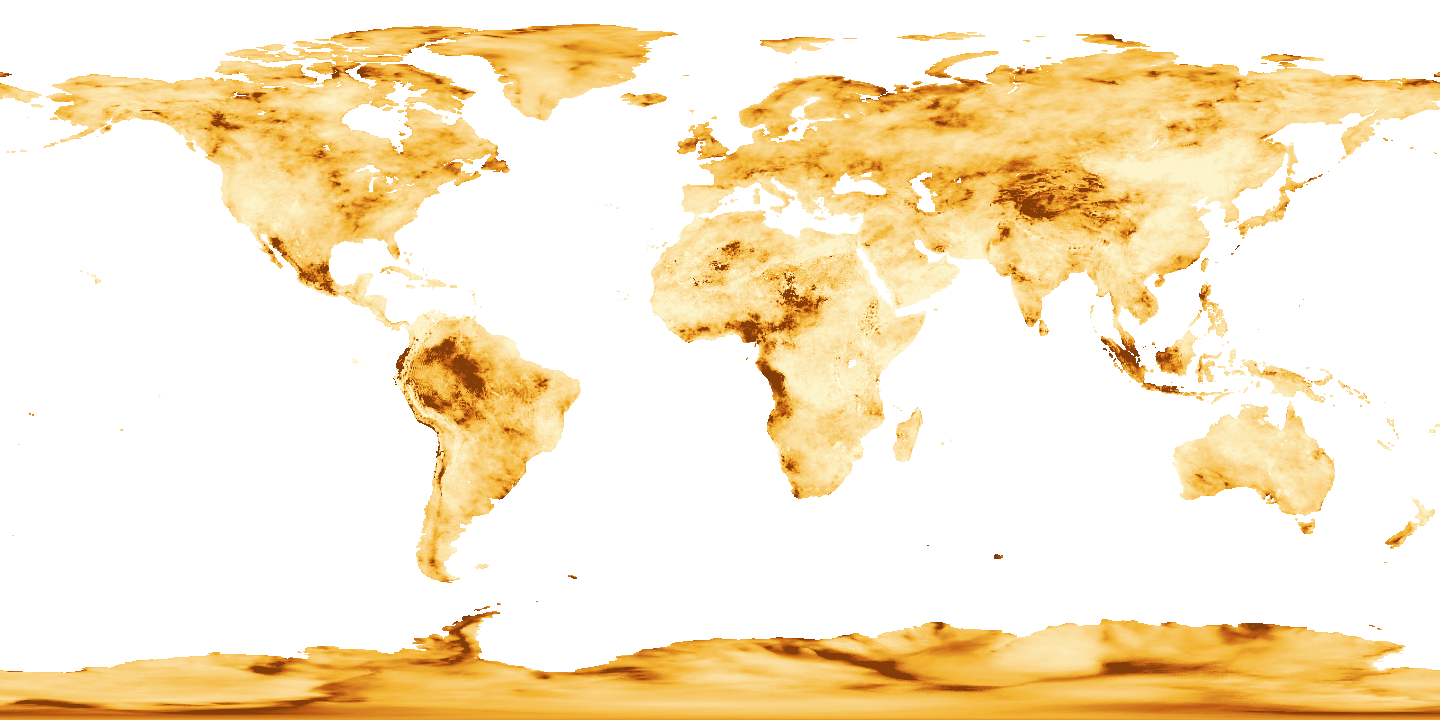
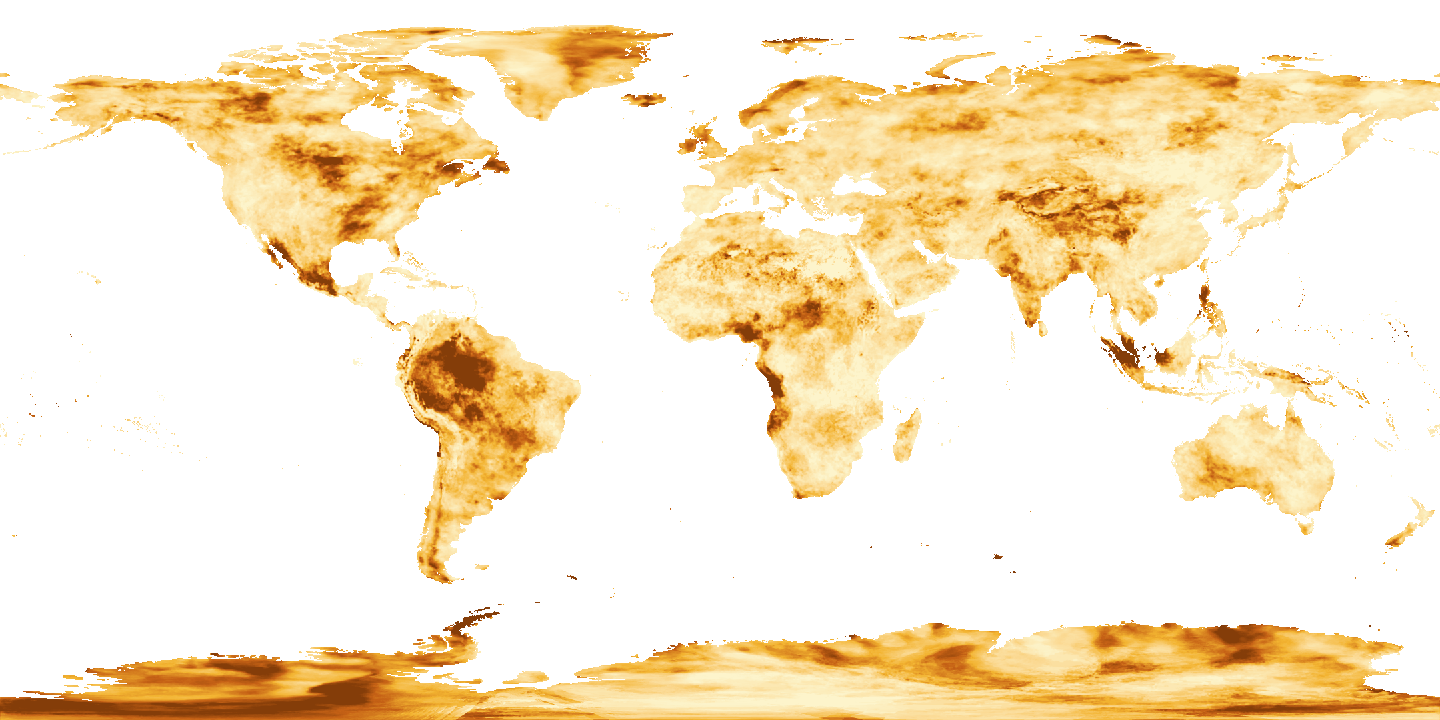
STAC: SPI/SPEI drought layers point at the TerraClimate probability band
The SPI and SPEI collections were built from the wrong files: SPI from the
Copernicus SPI index (-8..8) and SPEI from a 100-year return level. The
exposure rules (> 0.091 SPI, > 0.065 SPEI, the global means) and the
official GEE exposure tables use band 2 of the TerraClimate
spi12/spei12_TerraClimate_1958-2025 assets: the share of months in drought
(0-1). On the old files no pixel passed the threshold, so the raster route
gave 0 exposed children (Benin: 0 vs 2.94 M official).

- layers.yaml: source = band 2 of final_hazard_layers/drought/
  spi12_TerraClilmate_1958-2025.tif / spei12_TerraClimate_1958-2025.tif;
  units, range, nodata (-9999) and the swapped GEE asset names fixed.
- New `cog_blob` override: the layers use the prebuilt band-2 COGs already
  on Azure (gchd_cog/drought/drought_{spi,spei}12_terraclimate_1958-2025_b2.tif,
  identical to band 2); step 3 skips such layers. Nothing on Azure changes.
- 07: no reversed palette for SPI/SPEI (higher probability = more severe).
- Rebuilt catalog: SPI global mean is now 0.0912, the threshold's value.

Check: browser raster route vs official tables, ADM1: Benin SPI 2,937,941 vs
2,937,965, SPEI 4,980,839 vs 4,981,144; Kenya SPI 493,079 vs 493,088, SPEI
553,540 vs 553,540 (max per-unit difference 0.03 %).

diff --git a/STAC_catalog/pipeline/07_thumbnails.py b/STAC_catalog/pipeline/07_thumbnails.py
@@ -37,13 +37,14 @@ from rasterio.enums import Resampling
 
 import _path  # noqa: F401,E402  (STAC_catalog/ on sys.path)
 from gchd_stac.common import (COG_PREFIX, PUBLIC_CONTAINER, STAC_DIR, THUMB_DIR, clamp_world, container_client, gdal_env,
-                    gdal_path, load_layers)
+                    cog_blob, gdal_path, load_layers)
 
 NE_DIR = STAC_DIR / "work" / "naturalearth"   # ne_110m_land / ne_50m_land GeoJSON
 OCEAN, LAND, COAST, TEXT = "#eef2f6", "#dde1e6", "#b9c0c8", "#3a3f45"
 TILE_RANGE_DEFAULT = (0.0, 3.0)  # river flood depth (m) when thumb_range is not set
-# Return levels where lower = more severe: dark end of the palette goes to the low values
-REVERSED_PALETTE = {"drought_spi_terraclimate_1958-2025", "drought_spei_terraclimate_1958-2025"}
+# Layers where lower = more severe (e.g. SPI/SPEI return levels): the dark end of the palette goes to the low
+# values. Empty since SPI/SPEI became probabilities of drought months (higher = more severe), 2026-11-27.
+REVERSED_PALETTE: set[str] = set()
 # Sparse, thin features (1-px coastal strips, conflict points) vanish when subsampled: read a finer overview
 # and keep the maximum of each block instead
 MAX_POOL = {"coastal_flood_100yr_jrc_2024": 8, "UNICEF_ACLED_CI_Sep2020_Aug2025": 4}
@@ -205,7 +206,7 @@ def main():
     for layer in load_layers():
         col = layer["collection"]
         if layer["source"]["type"] == "file":
-            blob = f"{COG_PREFIX}/{col}/{layer['id']}.tif"
+            blob = cog_blob(layer)
             if blob not in published:
                 continue
             url = f"{base}/{blob}"

diff --git a/STAC_catalog/pipeline/08_build_stac.py b/STAC_catalog/pipeline/08_build_stac.py
@@ -44,7 +44,7 @@ import _path  # noqa: F401,E402  (STAC_catalog/ on sys.path)
 from gchd_stac import docs, population, portolan
 from gchd_stac.common import (CONFIG_DIR, COG_PREFIX, HAZARD_MAP_YAML, LAYERS_YAML, OVERVIEWS, PAGES_URL,
                               PUBLIC_CONTAINER, REPO_DIR, STAC_DIR, STAC_OUT, THUMB_DIR, WORK_DIR, clamp_world,
-                              container_client, gdal_env, load_catalog_config, load_layers, stac_id)
+                              cog_blob, container_client, gdal_env, load_catalog_config, load_layers, stac_id)
 
 COG_TYPE = pystac.MediaType.COG
 VRT_TYPE = "application/xml"
@@ -449,7 +449,7 @@ def build(workers: int, hash_remote: bool = False):
         theme = themes.get(grp)
         parent = theme_cat[grp] if theme else groups[grp]
         if layer["source"]["type"] == "file":
-            blob = f"{COG_PREFIX}/{grp}/{layer['id']}.tif"
+            blob = cog_blob(layer)
             if blob not in published:
                 print(f"skip   {stac_id(layer)} ({blob} not published)")
                 continue

diff --git a/STAC_catalog/pipeline/03_convert_cog.py b/STAC_catalog/pipeline/03_convert_cog.py
@@ -31,7 +31,7 @@ from rio_cogeo.profiles import cog_profiles
 
 import _path  # noqa: F401,E402  (STAC_catalog/ on sys.path)
 from gchd_stac.common import (ACCOUNT_URL, COG_PREFIX, PUBLIC_CONTAINER, RAW_CONTAINER, REPORTS_DIR,
-                    STAC_DIR, container_client, load_layers)
+                    STAC_DIR, container_client, cog_blob, load_layers)
 
 WORK_DIR = Path(os.getenv("GCHD_WORK_DIR", STAC_DIR / "work"))
 GDAL_CFG = {"GDAL_NUM_THREADS": "ALL_CPUS", "GDAL_TIFF_OVR_BLOCKSIZE": "512",
@@ -227,6 +227,9 @@ def main():
 
     for layer in layers:
         src = layer["source"]
+        if src["type"] == "file" and layer.get("cog_blob"):
+            print(f"skip   {layer['id']}: prebuilt COG {cog_blob(layer)} (cog_blob in layers.yaml)", flush=True)
+            continue
         if src["type"] == "file":
             blob = src["href"].split(f"/{PUBLIC_CONTAINER}/", 1)[1]
             print(process(layer, PUBLIC_CONTAINER, blob, cog_blob_name(layer), args.force, args.keep), flush=True)

diff --git a/STAC_catalog/gchd_stac/common.py b/STAC_catalog/gchd_stac/common.py
@@ -83,6 +83,12 @@ def load_layers() -> list[dict]:
     return layers + load_catalog_config().get("layers", [])
 
 
+def cog_blob(layer: dict) -> str:
+    """Blob of a single-file layer's COG: <COG_PREFIX>/<collection>/<id>.tif, or `cog_blob` (a file name in the
+    same folder) for a COG built outside step 3, e.g. one band of a multi-band source."""
+    return f"{COG_PREFIX}/{layer['collection']}/{layer.get('cog_blob') or layer['id'] + '.tif'}"
+
+
 def stac_id(layer: dict) -> str:
     """Collection id of a layer: `stac_id` if set, else the layer id in lower case (as in the Portolan catalog)."""
     return layer.get("stac_id") or layer["id"].lower()

diff --git a/STAC_catalog/stac/hazards/drought/drought_spei_terraclimate_1958-2025/README.md b/STAC_catalog/stac/hazards/drought/drought_spei_terraclimate_1958-2025/README.md
@@ -2,7 +2,7 @@
 
 SPEI adds the effect of evapotranspiration and is better suited to assess droughts under climate change scenarios where temperature changes are important. Probability values are computed from the full 1958–2025 record (804 monthly time steps) dividing the numbers of months lower than TH (1.5) with total months
 
-Source: TerraClimate (https://unidatadapmclimatechange.blob.core.windows.net/public/final_hazard_layers/drought/SPEI12_return_level_100yr.tif); processed and hosted by UNICEF for the Global Child Hazard Database.
+Source: TerraClimate (https://unidatadapmclimatechange.blob.core.windows.net/public/final_hazard_layers/drought/spei12_TerraClimate_1958-2025.tif); processed and hosted by UNICEF for the Global Child Hazard Database.
 
 | | |
 |---|---|
@@ -10,13 +10,13 @@ Source: TerraClimate (https://unidatadapmclimatechange.blob.core.windows.net/pub
 | Hazard | Droughts |
 | Phase | Preparedness/Planning |
 | Data type | Probabilistic - empirical |
-| Units | Index |
+| Units | probability (0-1), share of months in drought |
 | Resolution | 5km |
 | Coverage | Global |
-| Exposure threshold | >0.06 (global mean) |
+| Exposure threshold | >0.065 (global mean) |
 | Classes | Use quantile |
-| Value range | [-10.0, 10.0] |
-| GEE asset | projects/unicef-ccri/assets/droughts/spi12_TerraClimate_1958-2025 |
+| Value range | [0.0, 1.0] |
+| GEE asset | projects/unicef-ccri/assets/droughts/spei12_TerraClimate_1958-2025 |
 | License | other |
 | Providers | TerraClimate (producer, licensor), UNICEF (processor, host) |
 
@@ -24,9 +24,9 @@ Source: TerraClimate (https://unidatadapmclimatechange.blob.core.windows.net/pub
 
 | Asset | Type | Size | Link |
 |---|---|---|---|
-| `data` | image/tiff; application=geotiff; profile=cloud-optimized | 1.4 MB | [Meteorological Drought (Standardized Precipitation Evapotranspiration Index) (Cloud-Optimized GeoTIFF)](https://unidatadapmclimatechange.blob.core.windows.net/public/gchd_cog/drought/drought_spei_terraclimate_1958-2025.tif) |
-| `thumbnail` | image/png | 130.0 KB | [Thumbnail](https://unicef.github.io/GCHD/STAC_catalog/stac/hazards/drought/drought_spei_terraclimate_1958-2025/thumbnail.png) |
-| `overview` | image/png | 509.2 KB | [Map overlay (data only)](https://unicef.github.io/GCHD/STAC_catalog/stac/hazards/drought/drought_spei_terraclimate_1958-2025/overview.png) |
+| `data` | image/tiff; application=geotiff; profile=cloud-optimized | 36.3 MB | [Meteorological Drought (Standardized Precipitation Evapotranspiration Index) (Cloud-Optimized GeoTIFF)](https://unidatadapmclimatechange.blob.core.windows.net/public/gchd_cog/drought/drought_spei12_terraclimate_1958-2025_b2.tif) |
+| `thumbnail` | image/png | 143.2 KB | [Thumbnail](https://unicef.github.io/GCHD/STAC_catalog/stac/hazards/drought/drought_spei_terraclimate_1958-2025/thumbnail.png) |
+| `overview` | image/png | 569.0 KB | [Map overlay (data only)](https://unicef.github.io/GCHD/STAC_catalog/stac/hazards/drought/drought_spei_terraclimate_1958-2025/overview.png) |
 
 ## Exposure rule
 
@@ -38,13 +38,13 @@ A pixel counts as exposed when:
 
 ```python
 import rasterio
-url = "https://unidatadapmclimatechange.blob.core.windows.net/public/gchd_cog/drought/drought_spei_terraclimate_1958-2025.tif"
+url = "https://unidatadapmclimatechange.blob.core.windows.net/public/gchd_cog/drought/drought_spei12_terraclimate_1958-2025_b2.tif"
 with rasterio.open(url) as src:                      # streams only the bytes it needs (COG)
     print(src.profile)
     value = next(src.sample([(lon, lat)]))           # value at a point (EPSG:4326)
     window = src.read(1, window=src.window(*bbox))   # bbox = (west, south, east, north)
 ```
-QGIS: Layer > Add Raster Layer > Protocol: HTTP(S), paste the URL. GDAL: `gdalinfo /vsicurl/https://unidatadapmclimatechange.blob.core.windows.net/public/gchd_cog/drought/drought_spei_terraclimate_1958-2025.tif`.
+QGIS: Layer > Add Raster Layer > Protocol: HTTP(S), paste the URL. GDAL: `gdalinfo /vsicurl/https://unidatadapmclimatechange.blob.core.windows.net/public/gchd_cog/drought/drought_spei12_terraclimate_1958-2025_b2.tif`.
 
 ---
 STAC: [`hazards/drought/drought_spei_terraclimate_1958-2025/collection.json`](https://unicef.github.io/GCHD/STAC_catalog/stac/hazards/drought/drought_spei_terraclimate_1958-2025/collection.json) · Browse: [STAC Browser](https://unicef.github.io/GCHD/STAC_catalog/browser/#/hazards/drought/drought_spei_terraclimate_1958-2025/collection.json) · Agent guide: [AGENTS.md](./AGENTS.md) · Processing: [https://github.com/unicef/GCHD](https://github.com/unicef/GCHD)

diff --git a/STAC_catalog/stac/hazards/drought/drought_spi_terraclimate_1958-2025/README.md b/STAC_catalog/stac/hazards/drought/drought_spi_terraclimate_1958-2025/README.md
@@ -2,7 +2,7 @@
 
 SPI measures the deviation of precipitation from the climatological average over a given accumulation period and is widely used to detect and characterize meteorological droughts. Probability values are computed from the full 1958–2025 record (804 monthly time steps) dividing the numbers of months lower than TH (1.5) with total months
 
-Source: TerraClimate (https://unidatadapmclimatechange.blob.core.windows.net/public/final_hazard_layers/drought/drought_spi_copernicus_1940_2024.tif); processed and hosted by UNICEF for the Global Child Hazard Database.
+Source: TerraClimate (https://unidatadapmclimatechange.blob.core.windows.net/public/final_hazard_layers/drought/spi12_TerraClilmate_1958-2025.tif); processed and hosted by UNICEF for the Global Child Hazard Database.
 
 | | |
 |---|---|
@@ -10,13 +10,13 @@ Source: TerraClimate (https://unidatadapmclimatechange.blob.core.windows.net/pub
 | Hazard | Droughts |
 | Phase | Preparedness/Planning |
 | Data type | Probabilistic - empirical |
-| Units | Index |
+| Units | probability (0-1), share of months in drought |
 | Resolution | 5km |
 | Coverage | Global |
-| Exposure threshold | >0.09 (global mean) |
+| Exposure threshold | >0.091 (global mean) |
 | Classes | Use natural breaks/quantile |
-| Value range | [-10.0, 10.0] |
-| GEE asset | projects/unicef-ccri/assets/droughts/spei12_TerraClimate_1958-2025 |
+| Value range | [0.0, 1.0] |
+| GEE asset | projects/unicef-ccri/assets/droughts/spi12_TerraClimate_1958-2025 |
 | License | other |
 | Providers | TerraClimate (producer, licensor), UNICEF (processor, host) |
 
@@ -24,9 +24,9 @@ Source: TerraClimate (https://unidatadapmclimatechange.blob.core.windows.net/pub
 
 | Asset | Type | Size | Link |
 |---|---|---|---|
-| `data` | image/tiff; application=geotiff; profile=cloud-optimized | 1.4 MB | [Meteorological Drought (Standardized Precipitation Index) (Cloud-Optimized GeoTIFF)](https://unidatadapmclimatechange.blob.core.windows.net/public/gchd_cog/drought/drought_spi_terraclimate_1958-2025.tif) |
-| `thumbnail` | image/png | 144.9 KB | [Thumbnail](https://unicef.github.io/GCHD/STAC_catalog/stac/hazards/drought/drought_spi_terraclimate_1958-2025/thumbnail.png) |
-| `overview` | image/png | 619.5 KB | [Map overlay (data only)](https://unicef.github.io/GCHD/STAC_catalog/stac/hazards/drought/drought_spi_terraclimate_1958-2025/overview.png) |
+| `data` | image/tiff; application=geotiff; profile=cloud-optimized | 35.4 MB | [Meteorological Drought (Standardized Precipitation Index) (Cloud-Optimized GeoTIFF)](https://unidatadapmclimatechange.blob.core.windows.net/public/gchd_cog/drought/drought_spi12_terraclimate_1958-2025_b2.tif) |
+| `thumbnail` | image/png | 148.3 KB | [Thumbnail](https://unicef.github.io/GCHD/STAC_catalog/stac/hazards/drought/drought_spi_terraclimate_1958-2025/thumbnail.png) |
+| `overview` | image/png | 618.7 KB | [Map overlay (data only)](https://unicef.github.io/GCHD/STAC_catalog/stac/hazards/drought/drought_spi_terraclimate_1958-2025/overview.png) |
 
 ## Exposure rule
 
@@ -38,13 +38,13 @@ A pixel counts as exposed when:
 
 ```python
 import rasterio
-url = "https://unidatadapmclimatechange.blob.core.windows.net/public/gchd_cog/drought/drought_spi_terraclimate_1958-2025.tif"
+url = "https://unidatadapmclimatechange.blob.core.windows.net/public/gchd_cog/drought/drought_spi12_terraclimate_1958-2025_b2.tif"
 with rasterio.open(url) as src:                      # streams only the bytes it needs (COG)
     print(src.profile)
     value = next(src.sample([(lon, lat)]))           # value at a point (EPSG:4326)
     window = src.read(1, window=src.window(*bbox))   # bbox = (west, south, east, north)
 ```
-QGIS: Layer > Add Raster Layer > Protocol: HTTP(S), paste the URL. GDAL: `gdalinfo /vsicurl/https://unidatadapmclimatechange.blob.core.windows.net/public/gchd_cog/drought/drought_spi_terraclimate_1958-2025.tif`.
+QGIS: Layer > Add Raster Layer > Protocol: HTTP(S), paste the URL. GDAL: `gdalinfo /vsicurl/https://unidatadapmclimatechange.blob.core.windows.net/public/gchd_cog/drought/drought_spi12_terraclimate_1958-2025_b2.tif`.
 
 ---
 STAC: [`hazards/drought/drought_spi_terraclimate_1958-2025/collection.json`](https://unicef.github.io/GCHD/STAC_catalog/stac/hazards/drought/drought_spi_terraclimate_1958-2025/collection.json) · Browse: [STAC Browser](https://unicef.github.io/GCHD/STAC_catalog/browser/#/hazards/drought/drought_spi_terraclimate_1958-2025/collection.json) · Agent guide: [AGENTS.md](./AGENTS.md) · Processing: [https://github.com/unicef/GCHD](https://github.com/unicef/GCHD)

diff --git a/STAC_catalog/stac/hazards/AGENTS.md b/STAC_catalog/stac/hazards/AGENTS.md
@@ -13,8 +13,8 @@ Global gridded hazard layers, grouped by hazard theme. Each layer is one collect
 | [`air_pollution_pm25_2012-2022`](https://unicef.github.io/GCHD/STAC_catalog/stac/hazards/air_pollution/air_pollution_pm25_2012-2022/collection.json) | PM 2.5 | raster | https://unidatadapmclimatechange.blob.core.windows.net/public/gchd_cog/air_pollution/air_pollution_pm25_2012-2022.tif |
 | [`unicef_acled_ci_sep2020_aug2025`](https://unicef.github.io/GCHD/STAC_catalog/stac/hazards/conflict/unicef_acled_ci_sep2020_aug2025/collection.json) | Conflict | raster | https://unidatadapmclimatechange.blob.core.windows.net/public/gchd_cog/conflict/UNICEF_ACLED_CI_Sep2020_Aug2025.tif |
 | [`agricultural_drought_fao_1984-2023`](https://unicef.github.io/GCHD/STAC_catalog/stac/hazards/drought/agricultural_drought_fao_1984-2023/collection.json) | Agricultural Drought (Agricultural Stress Index) | raster | https://unidatadapmclimatechange.blob.core.windows.net/public/gchd_cog/drought/agricultural_drought_fao_1984-2023.tif |
-| [`drought_spei_terraclimate_1958-2025`](https://unicef.github.io/GCHD/STAC_catalog/stac/hazards/drought/drought_spei_terraclimate_1958-2025/collection.json) | Meteorological Drought (Standardized Precipitation Evapotranspiration Index) | raster | https://unidatadapmclimatechange.blob.core.windows.net/public/gchd_cog/drought/drought_spei_terraclimate_1958-2025.tif |
-| [`drought_spi_terraclimate_1958-2025`](https://unicef.github.io/GCHD/STAC_catalog/stac/hazards/drought/drought_spi_terraclimate_1958-2025/collection.json) | Meteorological Drought (Standardized Precipitation Index) | raster | https://unidatadapmclimatechange.blob.core.windows.net/public/gchd_cog/drought/drought_spi_terraclimate_1958-2025.tif |
+| [`drought_spei_terraclimate_1958-2025`](https://unicef.github.io/GCHD/STAC_catalog/stac/hazards/drought/drought_spei_terraclimate_1958-2025/collection.json) | Meteorological Drought (Standardized Precipitation Evapotranspiration Index) | raster | https://unidatadapmclimatechange.blob.core.windows.net/public/gchd_cog/drought/drought_spei12_terraclimate_1958-2025_b2.tif |
+| [`drought_spi_terraclimate_1958-2025`](https://unicef.github.io/GCHD/STAC_catalog/stac/hazards/drought/drought_spi_terraclimate_1958-2025/collection.json) | Meteorological Drought (Standardized Precipitation Index) | raster | https://unidatadapmclimatechange.blob.core.windows.net/public/gchd_cog/drought/drought_spi12_terraclimate_1958-2025_b2.tif |
 | [`earthquake_v2023_1_pga_475_rock_3min`](https://unicef.github.io/GCHD/STAC_catalog/stac/hazards/earthquake/earthquake_v2023_1_pga_475_rock_3min/collection.json) | Earthquake | raster | https://unidatadapmclimatechange.blob.core.windows.net/public/gchd_cog/earthquake/earthquake_v2023_1_pga_475_rock_3min.tif |
 | [`fire_frequency_nasa_2001-2023`](https://unicef.github.io/GCHD/STAC_catalog/stac/hazards/fire/fire_frequency_nasa_2001-2023/collection.json) | Fire Frequency | raster | https://unidatadapmclimatechange.blob.core.windows.net/public/gchd_cog/fire/fire_frequency_nasa_2001-2023.tif |
 | [`fire_frp_nasa_2001-2024`](https://unicef.github.io/GCHD/STAC_catalog/stac/hazards/fire/fire_frp_nasa_2001-2024/collection.json) | Fire Intensity | raster | https://unidatadapmclimatechange.blob.core.windows.net/public/gchd_cog/fire/fire_FRP_nasa_2001-2024.tif |

diff --git a/STAC_catalog/stac/AGENTS.md b/STAC_catalog/stac/AGENTS.md
@@ -31,8 +31,8 @@ url = col.assets["data"].href
 | [`air_pollution_pm25_2012-2022`](https://unicef.github.io/GCHD/STAC_catalog/stac/hazards/air_pollution/air_pollution_pm25_2012-2022/collection.json) | PM 2.5 | raster | https://unidatadapmclimatechange.blob.core.windows.net/public/gchd_cog/air_pollution/air_pollution_pm25_2012-2022.tif |
 | [`unicef_acled_ci_sep2020_aug2025`](https://unicef.github.io/GCHD/STAC_catalog/stac/hazards/conflict/unicef_acled_ci_sep2020_aug2025/collection.json) | Conflict | raster | https://unidatadapmclimatechange.blob.core.windows.net/public/gchd_cog/conflict/UNICEF_ACLED_CI_Sep2020_Aug2025.tif |
 | [`agricultural_drought_fao_1984-2023`](https://unicef.github.io/GCHD/STAC_catalog/stac/hazards/drought/agricultural_drought_fao_1984-2023/collection.json) | Agricultural Drought (Agricultural Stress Index) | raster | https://unidatadapmclimatechange.blob.core.windows.net/public/gchd_cog/drought/agricultural_drought_fao_1984-2023.tif |
-| [`drought_spei_terraclimate_1958-2025`](https://unicef.github.io/GCHD/STAC_catalog/stac/hazards/drought/drought_spei_terraclimate_1958-2025/collection.json) | Meteorological Drought (Standardized Precipitation Evapotranspiration Index) | raster | https://unidatadapmclimatechange.blob.core.windows.net/public/gchd_cog/drought/drought_spei_terraclimate_1958-2025.tif |
-| [`drought_spi_terraclimate_1958-2025`](https://unicef.github.io/GCHD/STAC_catalog/stac/hazards/drought/drought_spi_terraclimate_1958-2025/collection.json) | Meteorological Drought (Standardized Precipitation Index) | raster | https://unidatadapmclimatechange.blob.core.windows.net/public/gchd_cog/drought/drought_spi_terraclimate_1958-2025.tif |
+| [`drought_spei_terraclimate_1958-2025`](https://unicef.github.io/GCHD/STAC_catalog/stac/hazards/drought/drought_spei_terraclimate_1958-2025/collection.json) | Meteorological Drought (Standardized Precipitation Evapotranspiration Index) | raster | https://unidatadapmclimatechange.blob.core.windows.net/public/gchd_cog/drought/drought_spei12_terraclimate_1958-2025_b2.tif |
+| [`drought_spi_terraclimate_1958-2025`](https://unicef.github.io/GCHD/STAC_catalog/stac/hazards/drought/drought_spi_terraclimate_1958-2025/collection.json) | Meteorological Drought (Standardized Precipitation Index) | raster | https://unidatadapmclimatechange.blob.core.windows.net/public/gchd_cog/drought/drought_spi12_terraclimate_1958-2025_b2.tif |
 | [`earthquake_v2023_1_pga_475_rock_3min`](https://unicef.github.io/GCHD/STAC_catalog/stac/hazards/earthquake/earthquake_v2023_1_pga_475_rock_3min/collection.json) | Earthquake | raster | https://unidatadapmclimatechange.blob.core.windows.net/public/gchd_cog/earthquake/earthquake_v2023_1_pga_475_rock_3min.tif |
 | [`fire_frequency_nasa_2001-2023`](https://unicef.github.io/GCHD/STAC_catalog/stac/hazards/fire/fire_frequency_nasa_2001-2023/collection.json) | Fire Frequency | raster | https://unidatadapmclimatechange.blob.core.windows.net/public/gchd_cog/fire/fire_frequency_nasa_2001-2023.tif |
 | [`fire_frp_nasa_2001-2024`](https://unicef.github.io/GCHD/STAC_catalog/stac/hazards/fire/fire_frp_nasa_2001-2024/collection.json) | Fire Intensity | raster | https://unidatadapmclimatechange.blob.core.windows.net/public/gchd_cog/fire/fire_FRP_nasa_2001-2024.tif |

diff --git a/STAC_catalog/stac/hazards/drought/drought_spi_terraclimate_1958-2025/AGENTS.md b/STAC_catalog/stac/hazards/drought/drought_spi_terraclimate_1958-2025/AGENTS.md
@@ -7,7 +7,7 @@ Guidance for AI agents and LLMs working with this collection. Generated from the
 SPI measures the deviation of precipitation from the climatological average over a given accumulation period and is widely used to detect and characterize meteorological droughts. Probability values are computed from the full 1958–2025 record (804 monthly time steps) dividing the numbers of months lower than TH (1.5) with total months
 
 - Layout: one global Cloud-Optimized GeoTIFF (collection-level `data` asset).
-- Data URL: https://unidatadapmclimatechange.blob.core.windows.net/public/gchd_cog/drought/drought_spi_terraclimate_1958-2025.tif
+- Data URL: https://unidatadapmclimatechange.blob.core.windows.net/public/gchd_cog/drought/drought_spi12_terraclimate_1958-2025_b2.tif
 - Period: 1958-01-01 – 2025-12-31
 - License: other (https://github.com/unicef/GCHD)
 
@@ -15,27 +15,27 @@ SPI measures the deviation of precipitation from the climatological average over
 
 ```python
 import rasterio
-url = "https://unidatadapmclimatechange.blob.core.windows.net/public/gchd_cog/drought/drought_spi_terraclimate_1958-2025.tif"
+url = "https://unidatadapmclimatechange.blob.core.windows.net/public/gchd_cog/drought/drought_spi12_terraclimate_1958-2025_b2.tif"
 with rasterio.open(url) as src:                      # streams only the bytes it needs (COG)
     print(src.profile)
     value = next(src.sample([(lon, lat)]))           # value at a point (EPSG:4326)
     window = src.read(1, window=src.window(*bbox))   # bbox = (west, south, east, north)
 ```
-QGIS: Layer > Add Raster Layer > Protocol: HTTP(S), paste the URL. GDAL: `gdalinfo /vsicurl/https://unidatadapmclimatechange.blob.core.windows.net/public/gchd_cog/drought/drought_spi_terraclimate_1958-2025.tif`.
+QGIS: Layer > Add Raster Layer > Protocol: HTTP(S), paste the URL. GDAL: `gdalinfo /vsicurl/https://unidatadapmclimatechange.blob.core.windows.net/public/gchd_cog/drought/drought_spi12_terraclimate_1958-2025_b2.tif`.
 
 ## Schema & field notes
 
-- Band: data type `float32`, nodata `nan`; observed range -8.222 to 8.21, mean -1.716, valid pixels 35.8%
+- Band: data type `float32`, nodata `-9999.0`; observed range 0 to 0.4361, mean 0.09124, valid pixels 35.8%
 - Hazard (`GCHD:hazard`): Droughts
 - Phase (`GCHD:hazard_phase`): Preparedness/Planning
 - Data type (`GCHD:data_type`): Probabilistic - empirical
-- Units (`GCHD:units`): Index
+- Units (`GCHD:units`): probability (0-1), share of months in drought
 - Resolution (`GCHD:nominal_resolution`): 5km
 - Coverage (`GCHD:coverage`): Global
-- Exposure threshold (`GCHD:threshold`): >0.09 (global mean)
+- Exposure threshold (`GCHD:threshold`): >0.091 (global mean)
 - Classes (`GCHD:classes`): Use natural breaks/quantile
-- Value range (`GCHD:value_range`): [-10.0, 10.0]
-- GEE asset (`GCHD:gee_asset`): projects/unicef-ccri/assets/droughts/spei12_TerraClimate_1958-2025
+- Value range (`GCHD:value_range`): [0.0, 1.0]
+- GEE asset (`GCHD:gee_asset`): projects/unicef-ccri/assets/droughts/spi12_TerraClimate_1958-2025
 - CRS: EPSG:4326
 - Exposure rule `drought_spi_tc`: exposed where value > 0.0912838950900999; a pixel has data where value > -1000 (default variant)
 

diff --git a/STAC_catalog/stac/hazards/drought/drought_spei_terraclimate_1958-2025/AGENTS.md b/STAC_catalog/stac/hazards/drought/drought_spei_terraclimate_1958-2025/AGENTS.md
@@ -7,7 +7,7 @@ Guidance for AI agents and LLMs working with this collection. Generated from the
 SPEI adds the effect of evapotranspiration and is better suited to assess droughts under climate change scenarios where temperature changes are important. Probability values are computed from the full 1958–2025 record (804 monthly time steps) dividing the numbers of months lower than TH (1.5) with total months
 
 - Layout: one global Cloud-Optimized GeoTIFF (collection-level `data` asset).
-- Data URL: https://unidatadapmclimatechange.blob.core.windows.net/public/gchd_cog/drought/drought_spei_terraclimate_1958-2025.tif
+- Data URL: https://unidatadapmclimatechange.blob.core.windows.net/public/gchd_cog/drought/drought_spei12_terraclimate_1958-2025_b2.tif
 - Period: 1958-01-01 – 2025-12-31
 - License: other (https://github.com/unicef/GCHD)
 
@@ -15,27 +15,27 @@ SPEI adds the effect of evapotranspiration and is better suited to assess drough
 
 ```python
 import rasterio
-url = "https://unidatadapmclimatechange.blob.core.windows.net/public/gchd_cog/drought/drought_spei_terraclimate_1958-2025.tif"
+url = "https://unidatadapmclimatechange.blob.core.windows.net/public/gchd_cog/drought/drought_spei12_terraclimate_1958-2025_b2.tif"
 with rasterio.open(url) as src:                      # streams only the bytes it needs (COG)
     print(src.profile)
     value = next(src.sample([(lon, lat)]))           # value at a point (EPSG:4326)
     window = src.read(1, window=src.window(*bbox))   # bbox = (west, south, east, north)
 ```
-QGIS: Layer > Add Raster Layer > Protocol: HTTP(S), paste the URL. GDAL: `gdalinfo /vsicurl/https://unidatadapmclimatechange.blob.core.windows.net/public/gchd_cog/drought/drought_spei_terraclimate_1958-2025.tif`.
+QGIS: Layer > Add Raster Layer > Protocol: HTTP(S), paste the URL. GDAL: `gdalinfo /vsicurl/https://unidatadapmclimatechange.blob.core.windows.net/public/gchd_cog/drought/drought_spei12_terraclimate_1958-2025_b2.tif`.
 
 ## Schema & field notes
 
-- Band: data type `float32`, nodata `nan`; observed range -33.85 to -1.822, mean -4.923, valid pixels 35.8%
+- Band: data type `float32`, nodata `-9999.0`; observed range 0 to 0.3617, mean 0.06469, valid pixels 35.8%
 - Hazard (`GCHD:hazard`): Droughts
 - Phase (`GCHD:hazard_phase`): Preparedness/Planning
 - Data type (`GCHD:data_type`): Probabilistic - empirical
-- Units (`GCHD:units`): Index
+- Units (`GCHD:units`): probability (0-1), share of months in drought
 - Resolution (`GCHD:nominal_resolution`): 5km
 - Coverage (`GCHD:coverage`): Global
-- Exposure threshold (`GCHD:threshold`): >0.06 (global mean)
+- Exposure threshold (`GCHD:threshold`): >0.065 (global mean)
 - Classes (`GCHD:classes`): Use quantile
-- Value range (`GCHD:value_range`): [-10.0, 10.0]
-- GEE asset (`GCHD:gee_asset`): projects/unicef-ccri/assets/droughts/spi12_TerraClimate_1958-2025
+- Value range (`GCHD:value_range`): [0.0, 1.0]
+- GEE asset (`GCHD:gee_asset`): projects/unicef-ccri/assets/droughts/spei12_TerraClimate_1958-2025
 - CRS: EPSG:4326
 - Exposure rule `drought_spei_tc`: exposed where value > 0.0650162152126539; a pixel has data where value > -1000 (default variant)
 

diff --git a/STAC_catalog/stac/hazards/drought/AGENTS.md b/STAC_catalog/stac/hazards/drought/AGENTS.md
@@ -11,8 +11,8 @@ Droughts hazard layers of the Global Child Hazard Database. GLIDE code: DR.
 | id | Title | Kind | Data |
 |---|---|---|---|
 | [`agricultural_drought_fao_1984-2023`](https://unicef.github.io/GCHD/STAC_catalog/stac/hazards/drought/agricultural_drought_fao_1984-2023/collection.json) | Agricultural Drought (Agricultural Stress Index) | raster | https://unidatadapmclimatechange.blob.core.windows.net/public/gchd_cog/drought/agricultural_drought_fao_1984-2023.tif |
-| [`drought_spei_terraclimate_1958-2025`](https://unicef.github.io/GCHD/STAC_catalog/stac/hazards/drought/drought_spei_terraclimate_1958-2025/collection.json) | Meteorological Drought (Standardized Precipitation Evapotranspiration Index) | raster | https://unidatadapmclimatechange.blob.core.windows.net/public/gchd_cog/drought/drought_spei_terraclimate_1958-2025.tif |
-| [`drought_spi_terraclimate_1958-2025`](https://unicef.github.io/GCHD/STAC_catalog/stac/hazards/drought/drought_spi_terraclimate_1958-2025/collection.json) | Meteorological Drought (Standardized Precipitation Index) | raster | https://unidatadapmclimatechange.blob.core.windows.net/public/gchd_cog/drought/drought_spi_terraclimate_1958-2025.tif |
+| [`drought_spei_terraclimate_1958-2025`](https://unicef.github.io/GCHD/STAC_catalog/stac/hazards/drought/drought_spei_terraclimate_1958-2025/collection.json) | Meteorological Drought (Standardized Precipitation Evapotranspiration Index) | raster | https://unidatadapmclimatechange.blob.core.windows.net/public/gchd_cog/drought/drought_spei12_terraclimate_1958-2025_b2.tif |
+| [`drought_spi_terraclimate_1958-2025`](https://unicef.github.io/GCHD/STAC_catalog/stac/hazards/drought/drought_spi_terraclimate_1958-2025/collection.json) | Meteorological Drought (Standardized Precipitation Index) | raster | https://unidatadapmclimatechange.blob.core.windows.net/public/gchd_cog/drought/drought_spi12_terraclimate_1958-2025_b2.tif |
 
 ## License
 
